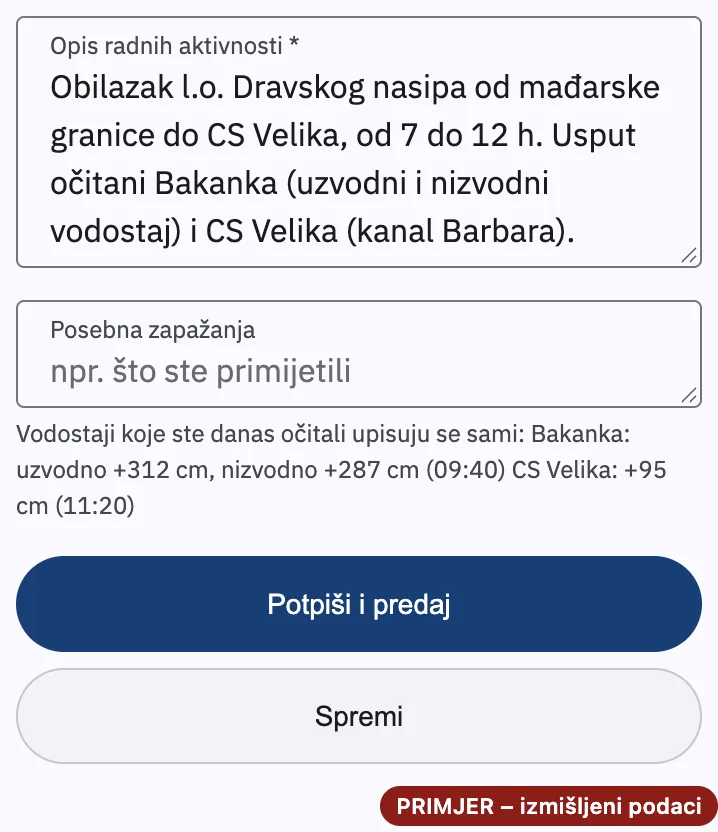
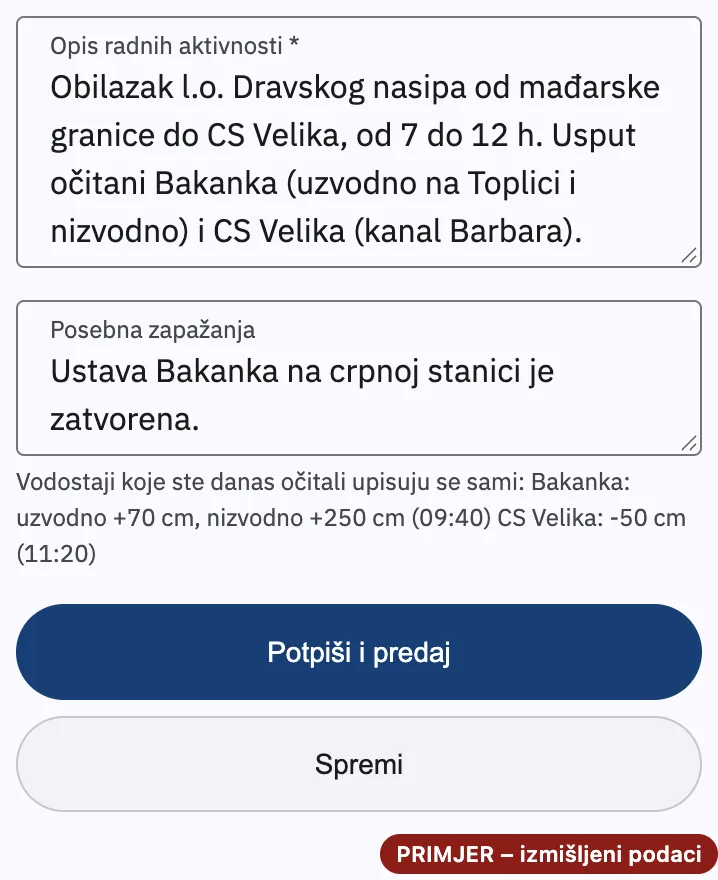
Pomoć, Vodočuvarski dnevnik: vodostaji Bakanke i CS Velika, zapažanje o ustavi
Na slici dna lista Bakanka ima uzvodno na Toplici +70 cm i nizvodno
+250 cm, CS Velika -50 cm, a u posebnim zapažanjima stoji da je ustava
Bakanka na crpnoj stanici zatvorena.

diff --git a/web/templates/pomoc.html b/web/templates/pomoc.html
@@ -1830,7 +1830,7 @@
       potpis</em> ga otključava i ne sprema se. Predan list više se ne mijenja. Ako predaja nije
       dopuštena, npr. jer fali opis rada ili zadatak nije obavljen a nije obrazložen zašto,
       upisano ostaje spremljeno kao nacrt, a poruka kaže što treba dopuniti.</p>
-    {{template "pomocSlika" (list "vodocuvar-list-dno" "Dno dnevnog lista na mobitelu: opis rada s obilaskom Dravskog nasipa, prazna posebna zapažanja, ispod toga današnji vodostaji ustave Bakanka i CS Velika koji se upisuju sami, te gumbi Potpiši i predaj i Spremi." "359")}}
+    {{template "pomocSlika" (list "vodocuvar-list-dno" "Dno dnevnog lista na mobitelu: opis rada s obilaskom Dravskog nasipa, zapažanje da je ustava Bakanka na crpnoj stanici zatvorena, ispod toga današnji vodostaji ustave Bakanka i CS Velika koji se upisuju sami, te gumbi Potpiši i predaj i Spremi." "359")}}
     <p><strong>Zadaci i kalendar.</strong> Zadatak je nalog rukovoditelja za određeni dan, npr.
       <em>Obilazak l.o. Dravskog nasipa od mađarske granice do CS Velika.</em> Letve uz put
       zadatka očitajte i upišite. Zadatak koji nije obavljen, a
